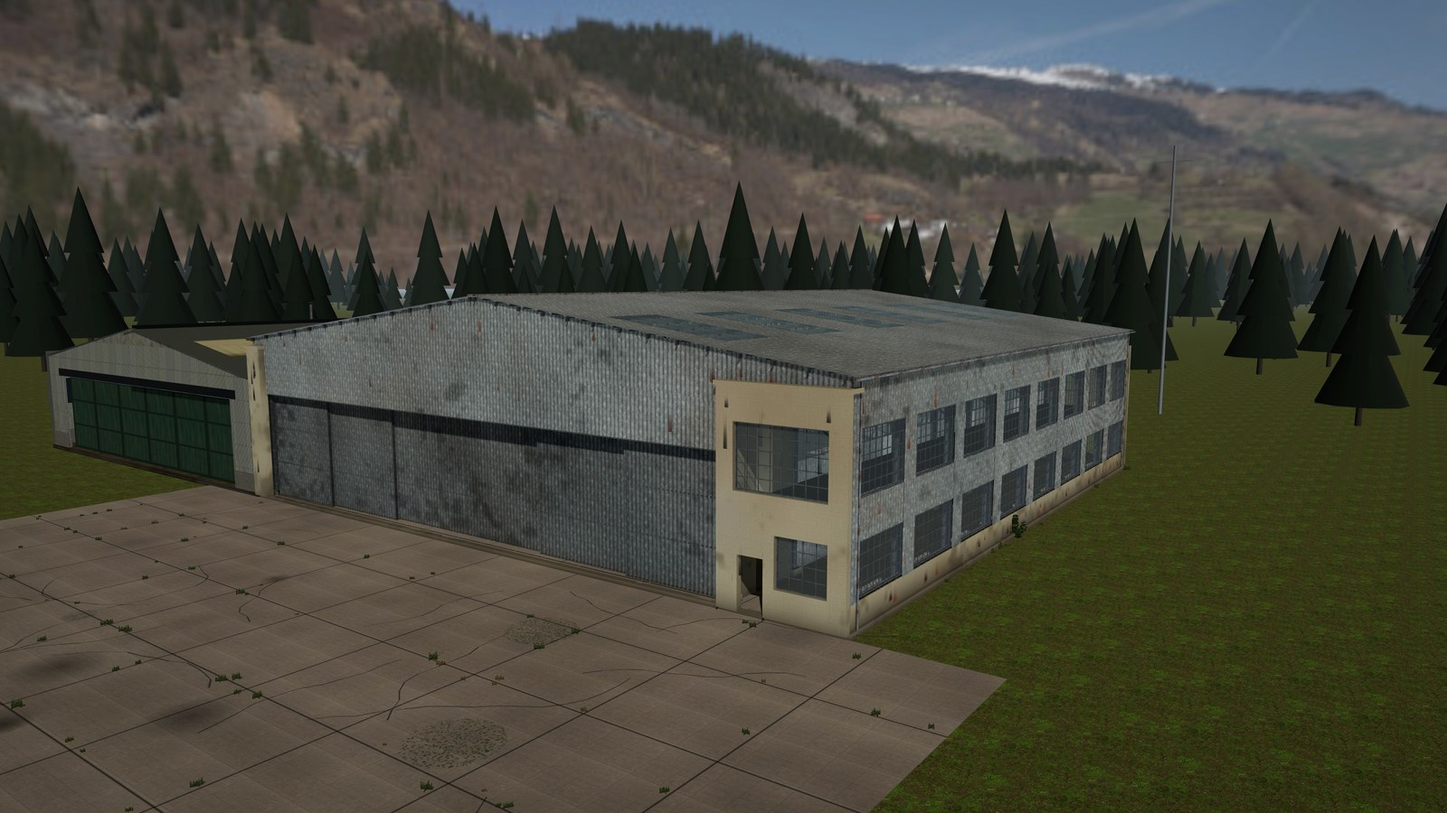
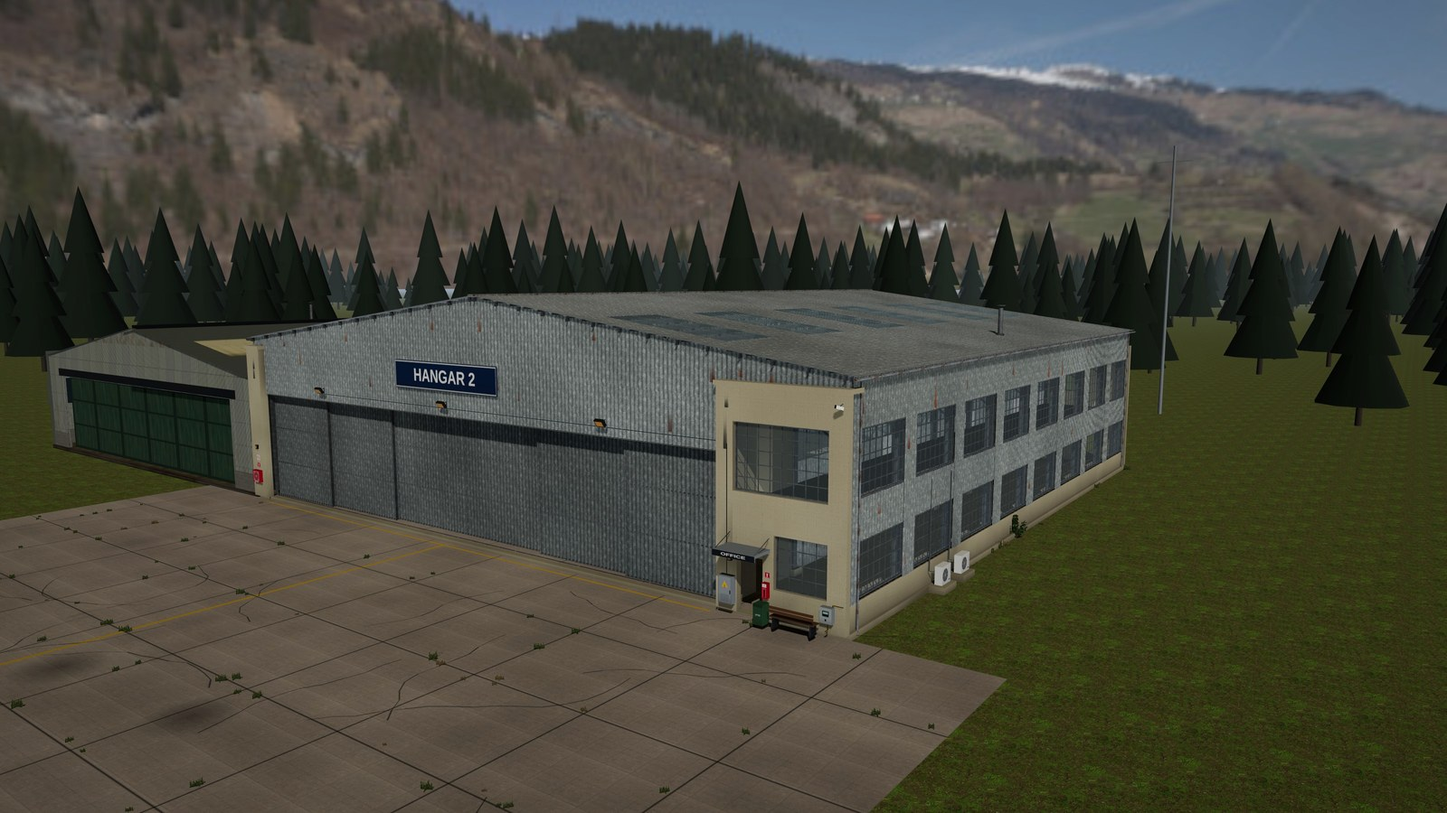
DERELICT-HANGAR: the restored hangar clean and working (the user: "still very dirty ... add detail that screams restored, like pipes and little furnishing on the facade")
- Less dirt on stage 3: cloud weathering 0.55 -> 0.08 on the sheets and the concrete, a light splash line, rust
  streaks rare, two water runs a tower, the stem washed, the apron's oil mostly gone.
- A working building, one painted atlas (the `fit` bag, one draw): the HANGAR 2 board over the door; three
  floodlights on the header (spot cones, aimed at the apron) with their conduit to the cabinet; the office entrance -
  canopy and OFFICE plate, bulkhead, door number, keypad, extinguisher box and fire sign, bench, litter bin; the meter
  box and a yellow gas pipe; the left pier's fire point (hose reel, signs, a lamp); hazard stripes up the jambs; two
  heat pumps on a pad along the office flank, their pipes up the wall; a stainless flue through the roof; a camera; the
  apron's yellow lead-in line and threshold stripe. At night (P.lamps) the lamps light and some office windows glow.
  Stage 3: 79 k tris / 14 bags at lod 0, 9.8 k / 10 at lod 1, 3.3 k / 6 at lod 2.
- Lamps publish their aim (ny) and kind ('flood' a cone); the bench stands floods as spotlights.
- The restored stills re-shot (front, hall, office entrance, night, the stage view).

Claude-Session: https://claude.ai/code/session_01RorUqEaREi51xJc6HDqs1e

diff --git a/flyDiy/tools/_derelict_gen.js b/flyDiy/tools/_derelict_gen.js
@@ -77,12 +77,12 @@ const PRESETS = {
   'derelict hangar, restored':  { stage: 3 },
 };
 const BAGS = ['steel', 'steelNew', 'sheetPale', 'sheetDark', 'sheetWhite', 'sheetNew', 'concFloor', 'concWall',
-              'glass', 'water', 'decal', 'stain', 'weed', 'plastic', 'lamp', 'ply'];
+              'glass', 'water', 'decal', 'stain', 'weed', 'plastic', 'lamp', 'fit', 'ply'];
 const EXTRA = ['aoskirt'];
 const FOLD = [null,
   [['steelNew', 'steel'], ['decal', null], ['stain', null], ['plastic', null], ['lamp', null], ['weed', null]],
   [['steelNew', 'steel'], ['sheetWhite', 'sheetPale'], ['concFloor', 'concWall'], ['ply', 'sheetDark'], ['glass', null], ['water', null],
-   ['decal', null], ['stain', null], ['plastic', null], ['lamp', null], ['weed', null]]];
+   ['decal', null], ['stain', null], ['plastic', null], ['lamp', null], ['weed', null], ['fit', null]]];
 const NO_AO = { glass: 1, water: 1, decal: 1, stain: 1, weed: 1, lamp: 1 };   // flat or cut: no voxels of their own in the bake
 
 // ---- the numbers ----------------------------------------------------------------------------------------------------------
@@ -143,7 +143,7 @@ function frame(O, X, Y) {
 const CELL = (c, u, v) => [((c % 4) + clamp(u, 0.004, 0.996)) / 4, 1 - (Math.floor(c / 4) + 1 - clamp(v, 0.004, 0.996)) / 4];
 // weed atlas, 2 x 2: 0 grass, 1 fireweed, 2 alder, 3 dry grass
 const WCELL = (c, u, v) => [((c % 2) + clamp(u, 0.004, 0.996)) / 2, 1 - (Math.floor(c / 2) + 1 - clamp(v, 0.004, 0.996)) / 2];
-const ATLAS = { decal: null, weed: null, barrier: null };
+const ATLAS = { decal: null, weed: null, barrier: null, fit: null };
 function decalCanvas() {
   if (typeof document === 'undefined') return null;
   const S = 256, c = document.createElement('canvas'); c.width = c.height = 4 * S;
@@ -620,6 +620,54 @@ function barrierCanvas() {
   return { diff: cD, rough: cR, nor: cN };
 }
 
+// ---- THE FITTINGS' ATLAS (the restored hangar's working details): one 1024 canvas, painted regions --------------------
+const FREG = {
+  signH: [0, 0, 1024, 192], office: [0, 192, 256, 64], nosmoke: [256, 192, 128, 128], fire: [384, 192, 128, 128],
+  num1: [512, 192, 64, 64], hazard: [576, 192, 192, 64], red: [768, 192, 32, 32], yellow: [800, 192, 32, 32], white: [832, 192, 32, 32],
+  dark: [864, 192, 32, 32], grey: [896, 192, 32, 32], navy: [928, 192, 32, 32], green: [960, 192, 32, 32], wood: [992, 192, 32, 32],
+  acfront: [0, 320, 256, 224], cabinet: [256, 320, 128, 224], meter: [384, 320, 128, 128], keypad: [512, 320, 64, 96],
+  extinguisher: [576, 320, 96, 224], hose: [672, 320, 160, 160], binfront: [832, 320, 128, 192],
+};
+function fitCanvas() {
+  if (typeof document === 'undefined') return null;
+  const c = document.createElement('canvas'); c.width = c.height = 1024;
+  const g = c.getContext('2d'), r = rng(19421109), rr = (a, b) => a + (b - a) * r();
+  const R = (k, col) => { const [x, y, w, h] = FREG[k]; g.fillStyle = col; g.fillRect(x, y, w, h); return [x, y, w, h]; };
+  g.fillStyle = '#7d8286'; g.fillRect(0, 0, 1024, 1024);
+  const grime = (k, a) => { const [x, y, w, h] = FREG[k]; for (let i = 0; i < 60 * w * h / 4096; i++) { g.fillStyle = `rgba(40,36,30,${rr(0.02, a)})`; g.fillRect(x + rr(0, w), y + rr(0, h), rr(1, 3), rr(1, 3)); }
+    const gr = g.createLinearGradient(0, y + h * 0.6, 0, y + h); gr.addColorStop(0, 'rgba(40,36,30,0)'); gr.addColorStop(1, `rgba(40,36,30,${a})`); g.fillStyle = gr; g.fillRect(x, y, w, h); };
+  { // the hangar's name board: white on a deep blue, a border, slight wear
+    const [x, y, w, h] = R('signH', '#1d3557'); g.strokeStyle = '#e8e6df'; g.lineWidth = 6; g.strokeRect(x + 10, y + 10, w - 20, h - 20);
+    g.fillStyle = '#efede6'; g.font = 'bold 118px sans-serif'; g.textAlign = 'center'; g.textBaseline = 'middle'; g.fillText('HANGAR 2', x + w / 2, y + h / 2 + 6); grime('signH', 0.12); }
+  { const [x, y, w, h] = R('office', '#2b2f33'); g.fillStyle = '#e9e7e0'; g.font = 'bold 40px sans-serif'; g.textAlign = 'center'; g.textBaseline = 'middle'; g.fillText('OFFICE', x + w / 2, y + h / 2 + 2); }
+  { const [x, y, w, h] = R('nosmoke', '#f4f3ee'); g.strokeStyle = '#c8102e'; g.lineWidth = 12; g.beginPath(); g.arc(x + 64, y + 64, 48, 0, 7); g.stroke();
+    g.fillStyle = '#222'; g.fillRect(x + 32, y + 58, 52, 12); g.fillStyle = '#d0a060'; g.fillRect(x + 84, y + 58, 10, 12); g.strokeStyle = '#c8102e'; g.beginPath(); g.moveTo(x + 30, y + 30); g.lineTo(x + 98, y + 98); g.stroke(); }
+  { const [x, y, w, h] = R('fire', '#c8102e'); g.fillStyle = '#fff'; g.fillRect(x + 54, y + 34, 22, 66); g.fillRect(x + 44, y + 24, 30, 12); g.beginPath(); g.moveTo(x + 76, y + 30); g.lineTo(x + 96, y + 22); g.lineTo(x + 96, y + 34); g.fill();
+    g.font = 'bold 16px sans-serif'; g.textAlign = 'center'; g.fillText('FIRE POINT', x + 64, y + 118); }
+  { const [x, y, w, h] = R('num1', '#f4f3ee'); g.fillStyle = '#1d3557'; g.font = 'bold 54px sans-serif'; g.textAlign = 'center'; g.textBaseline = 'middle'; g.fillText('1', x + 32, y + 34); }
+  { const [x, y, w, h] = R('hazard', '#e8b812'); g.save(); g.beginPath(); g.rect(x, y, w, h); g.clip(); g.fillStyle = '#1a1a1a'; for (let k = -4; k < 12; k++) { g.beginPath(); g.moveTo(x + k * 32, y + h); g.lineTo(x + k * 32 + 16, y + h); g.lineTo(x + k * 32 + 16 + h, y); g.lineTo(x + k * 32 + h, y); g.fill(); } g.restore(); grime('hazard', 0.25); }
+  R('red', '#b5171f'); R('yellow', '#d9a90f'); R('white', '#e3e2dc'); R('dark', '#2a2c2e'); R('grey', '#8a8f93'); R('navy', '#1d3557'); R('green', '#3c5a3e'); R('wood', '#6b4a2f');
+  { // the heat pump's front: a white case, a round fan grille, louvres, a badge
+    const [x, y, w, h] = R('acfront', '#e6e5df'); g.fillStyle = '#d6d5cf'; g.fillRect(x + 8, y + 8, w - 16, h - 16);
+    const cx = x + 96, cy = y + h / 2; g.fillStyle = '#3a3d40'; g.beginPath(); g.arc(cx, cy, 78, 0, 7); g.fill();
+    g.strokeStyle = '#c9c8c2'; g.lineWidth = 3; for (let k = 1; k < 6; k++) { g.beginPath(); g.arc(cx, cy, k * 15, 0, 7); g.stroke(); }
+    for (let k = 0; k < 8; k++) { const a = k * Math.PI / 4; g.beginPath(); g.moveTo(cx, cy); g.lineTo(cx + Math.cos(a) * 78, cy + Math.sin(a) * 78); g.stroke(); }
+    for (let k = 0; k < 9; k++) { g.fillStyle = '#b9b8b2'; g.fillRect(x + 190, y + 30 + k * 18, 52, 6); }
+    g.fillStyle = '#4a6fa5'; g.fillRect(x + 196, y + h - 40, 40, 12); grime('acfront', 0.12); }
+  { const [x, y, w, h] = R('cabinet', '#9aa0a3'); g.strokeStyle = '#6d7275'; g.lineWidth = 3; g.strokeRect(x + 6, y + 6, w - 12, h - 12);
+    for (let k = 0; k < 6; k++) { g.fillStyle = '#7c8285'; g.fillRect(x + 24, y + 150 + k * 10, 80, 4); }
+    g.fillStyle = '#e8b812'; g.beginPath(); g.moveTo(x + 64, y + 40); g.lineTo(x + 94, y + 92); g.lineTo(x + 34, y + 92); g.fill(); g.fillStyle = '#111'; g.font = 'bold 34px sans-serif'; g.textAlign = 'center'; g.fillText('!', x + 64, y + 88);
+    g.fillStyle = '#333'; g.fillRect(x + 108, y + 110, 8, 30); grime('cabinet', 0.18); }
+  { const [x, y, w, h] = R('meter', '#a7aba8'); g.fillStyle = '#1e2a2c'; g.fillRect(x + 30, y + 26, 68, 44); g.fillStyle = '#9fc2b8'; g.fillRect(x + 38, y + 34, 52, 16); g.fillStyle = '#333'; g.fillRect(x + 56, y + 90, 16, 16); grime('meter', 0.18); }
+  { const [x, y, w, h] = R('keypad', '#2c2e30'); g.fillStyle = '#9a9c9e'; for (let i = 0; i < 3; i++) for (let j = 0; j < 4; j++) g.fillRect(x + 10 + i * 16, y + 26 + j * 16, 11, 11); g.fillStyle = '#3fb34f'; g.fillRect(x + 26, y + 10, 10, 6); }
+  { const [x, y, w, h] = R('extinguisher', '#b5171f'); g.fillStyle = '#e8e6df'; g.fillRect(x + 12, y + 12, w - 24, 46); g.fillStyle = '#b5171f'; g.font = 'bold 14px sans-serif'; g.textAlign = 'center'; g.fillText('FIRE', x + w / 2, y + 32); g.fillText('EXT.', x + w / 2, y + 50);
+    g.fillStyle = 'rgba(200,230,235,0.35)'; g.fillRect(x + 14, y + 70, w - 28, h - 90); g.fillStyle = '#8e1016'; g.fillRect(x + 32, y + 90, 32, 110); }
+  { const [x, y, w, h] = R('hose', '#b5171f'); g.fillStyle = 'rgba(210,235,240,0.45)'; g.fillRect(x + 14, y + 14, w - 28, h - 28); g.strokeStyle = '#7a0d12'; g.lineWidth = 10; g.beginPath(); g.arc(x + w / 2, y + h / 2, 44, 0, 7); g.stroke(); g.beginPath(); g.arc(x + w / 2, y + h / 2, 26, 0, 7); g.stroke();
+    g.fillStyle = '#fff'; g.font = 'bold 16px sans-serif'; g.textAlign = 'center'; g.fillText('FIRE HOSE', x + w / 2, y + h - 6); }
+  { const [x, y, w, h] = R('binfront', '#3c5a3e'); g.fillStyle = '#2f4731'; g.fillRect(x, y, w, 26); g.fillStyle = '#e3e2dc'; g.font = 'bold 18px sans-serif'; g.textAlign = 'center'; g.fillText('LITTER', x + w / 2, y + 100); grime('binfront', 0.2); }
+  return c;
+}
+
 // ---- the build ------------------------------------------------------------------------------------------------------------
 function build(P0, lod, F) {
   const P = Object.assign({}, DEF, P0 || {});
@@ -678,7 +726,7 @@ function build(P0, lod, F) {
         for (let z = zA0 + 5; z < zA1; z += 5) jl([-xA, 0, z], [xA, 0, z], 0.05);
         for (let c = 0; c < 26; c++) { let x = (ra() * 2 - 1) * xA, z = zA0 + ra() * (zA1 - zA0), a = ra() * 6.28;
           for (let q = 0; q < 8 + ra() * 10; q++) { a += (ra() - 0.5) * 0.9; const x2 = x + Math.cos(a) * 0.7, z2 = z + Math.sin(a) * 0.7; jl([x, 0, z], [x2, 0, z2], 0.02 + ra() * 0.025); x = x2; z = z2; } }
-        for (let q = 0; q < 9; q++) { const x = (ra() * 2 - 1) * (xA - 3), z = zA0 + 2 + ra() * Math.min(30, zA1 - zA0 - 4), r = 0.5 + ra() * 1.1, c = q < 6 ? 11 : 12;
+        for (let q = 0; q < (rest ? 2 : 9); q++) { const x = (ra() * 2 - 1) * (xA - 3), z = zA0 + 2 + ra() * Math.min(30, zA1 - zA0 - 4), r = 0.5 + ra() * 1.1, c = q < 6 ? 11 : 12;
           face(bags.stain, [[x - r, yl(x, z), z + r], [x + r, yl(x, z), z + r], [x + r, yl(x, z), z - r], [x - r, yl(x, z), z - r]], Yup, p => CELL(c, (p[0] - x + r) / (2 * r), (z + r - p[2]) / (2 * r))); }
       }
       // the step from the apron up to the slab
@@ -1055,7 +1103,7 @@ function build(P0, lod, F) {
       clad(F2, w0, w1, fy + 3.3, yL2 + 0.9, 0.04, reg);
       clad(F2, u0, w0, yL2 + 0.9, yL2 + 3.5, 0.04, reg); clad(F2, w1, u1, yL2 + 0.9, yL2 + 3.5, 0.04, reg);
       clad(F2, u0, u1, yL2 + 3.5, yR(HW) + 0.02, 0.04, regBand);
-      if (L === 0) for (let q = 0; q < 3; q++) {                         // water down the stem from the sill
+      if (L === 0 && !rest) for (let q = 0; q < 3; q++) {                // water down the stem from the sill (restored: washed)
         const uq = w0 + (w1 - w0) * (0.15 + 0.7 * hashN(k, q, 99 + s, seed)), wq = 0.25 + 0.35 * hashN(k, q, 100 + s, seed), Lq = 0.5 + 0.45 * hashN(k, q, 101, seed);
         face(bags.stain, [F2.P(uq, fy + 1.0 - Lq, 0.005), F2.P(uq + wq, fy + 1.0 - Lq, 0.005), F2.P(uq + wq, fy + 1.0, 0.005), F2.P(uq, fy + 1.0, 0.005)], F2.N,
              p => { const q2 = sub(p, F2.P(uq, fy + 1.0, 0)); return CELL(q % 2 ? 7 : 5, dot(q2, F2.X) / wq, -q2[1] / Lq); });
@@ -1484,10 +1532,139 @@ function build(P0, lod, F) {
   // the stains down the concrete under the tower windows and the coping (water runs)
   if (L === 0) {
     const FT = frame([0, 0, HD + zT + 0.153], [1, 0, 0], Yup);
-    for (const s of [-1, 1]) for (let q = 0; q < 7; q++) {
+    for (const s of [-1, 1]) for (let q = 0; q < (rest ? 2 : 7); q++) {
       const u = s * xGs(s) + s * (0.3 + Math.max(0.1, GWs(s) - 0.6) * hashN(q, s, 97, seed)) - 0.15, top = q < 4 ? towerTop - 0.02 : (q < 6 ? yGR - 0.5 : fy + 3.3), Ls = 0.8 + 1.8 * hashN(q, s, 98, seed);
       face(bags.stain, [FT.P(u, top - Ls, 0), FT.P(u + 0.3, top - Ls, 0), FT.P(u + 0.3, top, 0), FT.P(u, top, 0)], FT.N, p => CELL(7, (p[0] - u) / 0.3, (top - p[1]) / Ls));
       st.decals++;
+    }
+  }
+
+  // ===================================================================== A WORKING BUILDING (restored)
+  // (the user 9 Nov: "add detail that screams restored, like pipes and little furnishing on the facade that show that
+  // it's actually working"): the services a used hangar wears - a sign over the door and floodlights on the header with
+  // their conduit to the cabinet and the meter box; the office entrance (a canopy, a bulkhead, the door's number, a plate,
+  // a bench, a bin); the fire point (extinguisher, hose reel, the signs); a yellow gas pipe; heat-pump units on their pad
+  // along the office flank, their pipes up the wall; a stainless flue through the roof over the offices; a camera;
+  // hazard stripes on the jambs; the apron's lead-in line. One painted atlas (the `fit` bag) for every coloured part.
+  if (rest && L < 2) {
+    const fb = bags.fit, T0 = HD + zT + 0.15;                               // the towers' concrete face
+    const fv = (reg, u, v) => { const [x, y, w, h] = FREG[reg]; return [(x + clamp(u, 0.01, 0.99) * w) / 1024, 1 - (y + clamp(v, 0.01, 0.99) * h) / 1024]; };
+    // an oriented box: centre c, X across, Y up, Z = X x Y out of its wall; the front wears `rf`, the rest `rs` (a solid)
+    const obox = (c, X, Y, hx, hy, hz, rf, rs) => {
+      const Zv = nrm(crs(X, Y)), P0 = (a, b, d) => add(add(add(c, mul(X, a * hx)), mul(Y, b * hy)), mul(Zv, d * hz));
+      const F = (pts, n, uvf) => { const ids = pts.map(p => fb.v(p, uvf(p), n)); fb.quad(ids[0], ids[1], ids[2], ids[3]); };
+      const so = () => fv(rs || 'grey', 0.5, 0.5);
+      F([P0(-1, -1, 1), P0(1, -1, 1), P0(1, 1, 1), P0(-1, 1, 1)], Zv, p => { const q = sub(p, c); return fv(rf || rs || 'grey', 0.5 + dot(q, X) / (2 * hx), 1 - (0.5 + dot(q, Y) / (2 * hy))); });
+      F([P0(1, -1, -1), P0(-1, -1, -1), P0(-1, 1, -1), P0(1, 1, -1)], mul(Zv, -1), so);
+      F([P0(1, -1, 1), P0(1, -1, -1), P0(1, 1, -1), P0(1, 1, 1)], X, so);
+      F([P0(-1, -1, -1), P0(-1, -1, 1), P0(-1, 1, 1), P0(-1, 1, -1)], mul(X, -1), so);
+      F([P0(-1, 1, 1), P0(1, 1, 1), P0(1, 1, -1), P0(-1, 1, -1)], Y, so);
+      F([P0(-1, -1, -1), P0(1, -1, -1), P0(1, -1, 1), P0(-1, -1, 1)], mul(Y, -1), so);
+    };
+    // a tube a -> b (radius r) in one colour of the atlas, with elbows left to the joints
+    const tube = (a, b, r, reg, seg) => {
+      const n = seg || 8, ax = nrm(sub(b, a)); let u = Math.abs(ax[1]) < 0.9 ? [0, 1, 0] : [1, 0, 0];
+      const e1 = nrm(crs(ax, u)), e2 = crs(e1, ax), uv = fv(reg, 0.5, 0.5);
+      const ring = p => { const out = []; for (let k = 0; k <= n; k++) { const t = k / n * Math.PI * 2, d = add(mul(e1, Math.cos(t)), mul(e2, Math.sin(t))); out.push(fb.v(add(p, mul(d, r)), uv, d)); } return out; };
+      const A = ring(a), B = ring(b); for (let k = 0; k < n; k++) fb.quad(A[k], A[k + 1], B[k + 1], B[k]);
+    };
+    const pipe = (pts, r, reg) => { for (let i = 0; i + 1 < pts.length; i++) tube(pts[i], pts[i + 1], r, reg); };
+    const lens = (c, X, Y, hx, hy) => { const Zv = nrm(crs(X, Y)), P0 = (a, b) => add(add(add(c, mul(X, a * hx)), mul(Y, b * hy)), mul(Zv, 0.003));
+      const ids = [P0(-1, -1), P0(1, -1), P0(1, 1), P0(-1, 1)].map((p, i) => bags.lamp.v(p, [i % 3 ? 1 : 0, i > 1 ? 1 : 0], Zv)); bags.lamp.quad(ids[0], ids[1], ids[2], ids[3]); };
+    const lamp = (p, nrmv, k, range, col, spot) => lights.push({ x: p[0], y: p[1], z: p[2], nx: nrmv[0], ny: nrmv[1], nz: nrmv[2], col: col || [1.0, 0.86, 0.66], k, range, kind: spot ? 'flood' : 'facade' });   // a flood throws a cone (ny: its aim's drop)
+    const Xp = [1, 0, 0], Yp = [0, 1, 0];
+    // ---- THE SIGN over the door, on brackets off the header band (its centre the door's)
+    {
+      const yc = fy + DH + 1.75, w = 7.6, h = 1.42, z = HD + 0.2;
+      obox([dC, yc, z], Xp, Yp, w / 2, h / 2, 0.03, 'signH', 'navy');
+      if (L === 0) for (const dx of [-2.6, 0, 2.6]) for (const dy of [-0.45, 0.45]) member(bags.steel, [dC + dx, yc + dy, HD + 0.06], [dC + dx, yc + dy, z - 0.03], 'rod', Yp, L);
+    }
+    // ---- THE FLOODLIGHTS on the header, aimed down at the apron, their conduit along the header and down the tower
+    const yF = fy + DH + 0.42, fx = [dC - 10.5, dC, dC + 10.5];
+    for (const x of fx) {
+      const tilt = 0.6, Yt = [0, Math.cos(tilt), Math.sin(tilt)], c = [x, yF, HD + 0.42];
+      obox(c, Xp, Yt, 0.24, 0.17, 0.07, 'dark', 'dark');
+      lens(add(c, mul(nrm(crs(Xp, Yt)), 0.072)), Xp, Yt, 0.2, 0.13);
+      if (L === 0) { member(bags.steel, [x, yF + 0.12, HD + 0.08], [x, yF + 0.04, HD + 0.35], 'rod', Yp, L); }
+      lamp(add(c, [0, -0.1, 0.12]), [0, -0.5, 0.86], 1.2, 30, [1.0, 0.93, 0.82], true);
+    }
+    if (L === 0) {
+      const yc0 = fy + DH + 0.2, zc = HD + 0.12;
+      pipe([[fx[0], yc0, zc], [xGR + 0.4, yc0, zc]], 0.016, 'grey');
+      for (const x of fx) pipe([[x, yc0, zc], [x, yF + 0.12, zc]], 0.016, 'grey');
+      pipe([[xGR + 0.4, yc0, zc], [xGR + 0.4, yc0, T0 + 0.03], [xGR + 0.4, fy + 1.45, T0 + 0.03]], 0.016, 'grey');
+    }
+    if (L === 0) {
+      // ---- THE OFFICE ENTRANCE: the right tower's door (x 15.35 .. 16.55), a canopy, its lamp, its number, its plate
+      const dx0 = xGR + 0.85, dx1 = xGR + 2.05, dxc = (dx0 + dx1) / 2, yC = fy + 2.62;
+      obox([dxc, yC + 0.06, T0 + 0.55], Xp, Yp, 0.95, 0.06, 0.55, null, 'grey');                       // the canopy's deck
+      obox([dxc, yC - 0.02, T0 + 1.09], Xp, Yp, 0.97, 0.12, 0.02, 'office', 'grey');                  // its fascia, the plate on it
+      for (const sx of [-0.9, 0.9]) member(bags.steel, [dxc + sx, yC + 0.55, T0 + 0.02], [dxc + sx, yC + 0.1, T0 + 1.05], 'rod', Xp, L);   // the hangers
+      obox([dxc, fy + 2.4, T0 + 0.025], Xp, Yp, 0.1, 0.1, 0.02, 'num1', 'white');                      // the door's number
+      obox([dx0 - 0.28, fy + 2.15, T0 + 0.06], Xp, Yp, 0.09, 0.12, 0.06, 'dark', 'dark');            // the bulkhead
+      lens([dx0 - 0.28, fy + 2.15, T0 + 0.121], Xp, Yp, 0.07, 0.09);
+      lamp([dx0 - 0.28, fy + 2.15, T0 + 0.25], [0, 0, 1], 0.5, 9);
+      obox([dx1 + 0.22, fy + 1.35, T0 + 0.02], Xp, Yp, 0.05, 0.08, 0.02, 'keypad', 'dark');          // the keypad
+      obox([dx1 + 0.22, fy + 1.15, T0 + 0.11], Xp, Yp, 0.12, 0.3, 0.1, 'extinguisher', 'red');       // the extinguisher in its box
+      obox([dx1 + 0.22, fy + 1.72, T0 + 0.01], Xp, Yp, 0.1, 0.1, 0.006, 'fire', 'red');
+      // the bench and the bin under the window
+      const bz = T0 + 0.55, bx = (xGR + 2.7 + HW - 0.6) / 2;
+      for (const sx of [-0.8, 0.8]) { obox([bx + sx, fy + 0.22, bz], Xp, Yp, 0.03, 0.22, 0.2, null, 'dark'); }
+      for (let q = 0; q < 3; q++) obox([bx, fy + 0.45, bz - 0.15 + q * 0.15], Xp, Yp, 0.95, 0.02, 0.06, 'wood', 'wood');
+      for (let q = 0; q < 2; q++) obox([bx, fy + 0.68 + q * 0.14, bz + 0.24], Xp, [0, 0.97, -0.24], 0.95, 0.05, 0.02, 'wood', 'wood');
+      obox([bx - 1.45, fy + 0.4, bz], Xp, Yp, 0.22, 0.4, 0.22, 'binfront', 'green');
+      // the cabinet and the meter box (the gas meter beside it, its yellow pipe into the wall), under the ground window
+      obox([xGR + 0.4 + 0.1, fy + 0.9, T0 + 0.16], Xp, Yp, 0.32, 0.55, 0.15, 'cabinet', 'grey');
+      obox([HW - 0.55, fy + 0.75, T0 + 0.13], Xp, Yp, 0.25, 0.3, 0.12, 'meter', 'grey');
+      pipe([[HW - 0.55, fy + 0.45, T0 + 0.07], [HW - 0.55, fy + 0.15, T0 + 0.07], [HW - 0.55, fy + 0.15, T0 + 0.25]], 0.024, 'yellow');
+      pipe([[HW - 0.35, fy + 1.05, T0 + 0.07], [HW - 0.35, fy + 1.12, T0 + 0.07], [HW + 0.05, fy + 1.12, T0 + 0.07], [HW + 0.05, fy + 1.12, T0 - 0.2]], 0.02, 'yellow');
+      // the camera on the tower's corner, looking down the apron
+      obox([HW - 0.1, towerTop - 0.45, T0 + 0.28], [0.8, 0, 0.6], [0, 0.94, -0.33], 0.07, 0.06, 0.15, 'dark', 'white');
+      member(bags.steel, [HW - 0.1, towerTop - 0.35, T0 + 0.01], [HW - 0.1, towerTop - 0.4, T0 + 0.2], 'rod', Yp, L);
+      // ---- THE FIRE POINT on the left facade's pier: the hose reel, the no-smoking sign, the fire sign; a lamp over
+      const pc = -(xGL + HW) / 2;
+      obox([pc, fy + 1.25, T0 + 0.11], Xp, Yp, 0.36, 0.36, 0.1, 'hose', 'red');
+      obox([pc, fy + 1.9, T0 + 0.006], Xp, Yp, 0.13, 0.13, 0.005, 'fire', 'red');
+      obox([pc, fy + 2.35, T0 + 0.006], Xp, Yp, 0.16, 0.16, 0.005, 'nosmoke', 'white');
+      obox([pc, fy + 3.0, T0 + 0.06], Xp, Yp, 0.09, 0.12, 0.06, 'dark', 'dark'); lens([pc, fy + 3.0, T0 + 0.121], Xp, Yp, 0.07, 0.09); lamp([pc, fy + 3.0, T0 + 0.25], [0, 0, 1], 0.5, 9);
+      // ---- HAZARD STRIPES up the opening's jambs (the towers' returns), to 1.5 m
+      for (const [x, nx] of [[xGR - 0.151, -1], [-xGL + 0.151, 1]]) {
+        const ids = [[x, fy + 0.02, HD + 0.02], [x, fy + 0.02, T0 - 0.02], [x, fy + 1.5, T0 - 0.02], [x, fy + 1.5, HD + 0.02]].map((p, i) => fb.v(p, fv('hazard', i === 1 || i === 2 ? 0.45 : 0, i > 1 ? 0.99 : 0.01), [nx, 0, 0]));
+        if (nx > 0) fb.quad(ids[0], ids[1], ids[2], ids[3]); else fb.quad(ids[0], ids[3], ids[2], ids[1]);
+      }
+      // ---- THE HEAT PUMPS on their pad along the office flank, the pipes up the wall into the upper floor
+      for (const zc of [HD - 7.5, HD - 9.6]) {
+        K.boxAB(bags.concWall, [HW + 0.1, g(HW, zc) - 0.05, zc - 0.65], [HW + 0.85, fy + 0.03, zc + 0.65]);
+        obox([HW + 0.48, fy + 0.45, zc], [0, 0, -1], Yp, 0.45, 0.4, 0.17, 'acfront', 'white');
+        pipe([[HW + 0.3, fy + 0.6, zc + 0.5], [HW + 0.08, fy + 0.6, zc + 0.5], [HW + 0.08, yL2 + 0.6, zc + 0.5], [HW - 0.1, yL2 + 0.6, zc + 0.5]], 0.03, 'white');
+        pipe([[HW + 0.2, fy + 0.15, zc - 0.3], [HW + 0.2, fy + 0.03, zc - 0.3]], 0.012, 'white');
+      }
+      // ---- THE APRON'S LEAD-IN LINE and the door's threshold stripe (yellow paint), when the build lays its apron
+      if (P.apron) {
+        const yl = (x, z) => g(x, z) + 0.069, line = (x0, z0, x1, z1, w) => { const d = nrm([x1 - x0, 0, z1 - z0]), nn = [-d[2], 0, d[0]];
+          const q = [[x0 - nn[0] * w, z0 - nn[2] * w], [x1 - nn[0] * w, z1 - nn[2] * w], [x1 + nn[0] * w, z1 + nn[2] * w], [x0 + nn[0] * w, z0 + nn[2] * w]].map(([a, b]) => fb.v([a, yl(a, b), b], fv('yellow', 0.5, 0.5), Yp));
+          fb.quad(q[0], q[3], q[2], q[1]); };
+        line(dC, HD + 0.6, dC, HD + Math.min(P.apronL - 1, 24), 0.08);
+        line(-xGL + 0.3, HD + 0.6, xGR - 0.3, HD + 0.6, 0.06);
+      }
+    }
+    // ---- THE FLUE: stainless, through the roof over the offices, a rain cap on it
+    {
+      const xf = HW - 2.6, zf = -2.0, top = yR(xf) + 1.5;
+      K.cyl(bags.steel, [xf, yGR, zf], [0, 1, 0], 0.13, top - yGR, L === 0 ? 12 : 6, true, { smooth: true });
+      if (L === 0) { K.cyl(bags.steel, [xf, yR(xf) - 0.02, zf], [0, 1, 0], 0.22, 0.12, 12, true); K.cyl(bags.steel, [xf, top + 0.12, zf], [0, 1, 0], 0.24, 0.04, 12, true); }
+    }
+    // ---- AT NIGHT the offices are lit: a warm card behind some of the right flank's and the tower's windows
+    if (P.lamps && L === 0) {
+      const F2 = frame([HW, 0, HD], [0, 0, -1], Yp), uOf = z => HD - z;
+      for (let k = 0; k < NB; k++) for (const [ya, yb] of [[fy + 1.1, fy + 3.3], [yL2 + 0.9, yL2 + 3.5]]) {
+        if (hashN(k, Math.round(ya), 131, seed) > 0.55) continue;
+        const u0 = Math.min(uOf(zF(k)), uOf(zF(k + 1))) + 0.6, u1 = Math.max(uOf(zF(k)), uOf(zF(k + 1))) - 0.6;
+        const ids = [F2.P(u0, ya, -0.6), F2.P(u1, ya, -0.6), F2.P(u1, yb, -0.6), F2.P(u0, yb, -0.6)].map((p, i) => bags.lamp.v(p, [i % 3 ? 1 : 0, i > 1 ? 1 : 0], F2.N));
+        bags.lamp.quad(ids[0], ids[1], ids[2], ids[3]);
+      }
+      const ids = [[xGR + 2.6, fy + 1.2, T0 - 0.5], [HW - 0.6, fy + 1.2, T0 - 0.5], [HW - 0.6, fy + 3.3, T0 - 0.5], [xGR + 2.6, fy + 3.3, T0 - 0.5]].map((p, i) => bags.lamp.v(p, [i % 3 ? 1 : 0, i > 1 ? 1 : 0], [0, 0, 1]));
+      bags.lamp.quad(ids[0], ids[1], ids[2], ids[3]);
     }
   }
 
@@ -1624,6 +1801,7 @@ function makeMats() {
   M.stain = sh('stain', 'glass', { color: 0xffffff, roughness: 0.95, metalness: 0, depthWrite: false, polygonOffset: true, polygonOffsetFactor: -2, polygonOffsetUnits: -2 });
   M.weed = sh('weed', 'cut', { color: 0xffffff, roughness: 0.9, metalness: 0, alphaTest: 0.42 });
   M.plastic = sh('plastic', 'std', { color: 0xffffff, roughness: 1, metalness: 0 });
+  M.fit = sh('fit', 'std', { color: 0xffffff, roughness: 0.55, metalness: 0.1 });
   M.lamp = sh('lamp', 'glow', { color: 0xd88a2a, roughness: 0.25, metalness: 0, emissive: 0xff9a26, emissiveIntensity: 0 });
   const HF = HG.makeFinish ? HG.makeFinish() : null;
   M.aoskirt = HF && HF.MAT ? HF.MAT.aoskirt : null;
@@ -1664,7 +1842,7 @@ function applyFinish(P0, F0) {
     calibrate(m, img, target, hue, k === 'concFloor' ? () => wetFrom(M) : null);
     m.metalness = metal; if (m.normalScale) m.normalScale.set(ns, ns);
     if (HG.shadeHouse && !(m.userData && m.userData.houseShaded)) HG.shadeHouse(m, SU);
-    if (HG.cloudWeather && /^(sheet|concWall)/.test(k)) HG.cloudWeather(m, k === 'sheetNew' ? 0.1 : 0.55, 0);
+    if (HG.cloudWeather && /^(sheet|concWall)/.test(k)) HG.cloudWeather(m, k === 'sheetNew' || (P.stage | 0) === 3 ? 0.08 : 0.55, 0);   // (the user: the restored "still very dirty" - a little weathering, no more)
     m.needsUpdate = true;
   }
   if (!ATLAS.decal) { const c = decalCanvas(); if (c) { ATLAS.decal = new THREE.CanvasTexture(c); ATLAS.decal.colorSpace = THREE.SRGBColorSpace; ATLAS.decal.anisotropy = 8; } }
@@ -1673,6 +1851,8 @@ function applyFinish(P0, F0) {
   if (ATLAS.weed) { M.weed.map = ATLAS.weed; M.weed.needsUpdate = true; }
   if (!ATLAS.barrier) { const B = barrierCanvas(); if (B) { const tx = (cv, srgb) => { const t = new THREE.CanvasTexture(cv); if (srgb) t.colorSpace = THREE.SRGBColorSpace; t.anisotropy = 8; return t; };
     ATLAS.barrier = { diff: tx(B.diff, true), rough: tx(B.rough), nor: tx(B.nor) }; } }
+  if (!ATLAS.fit) { const c = fitCanvas(); if (c) { ATLAS.fit = new THREE.CanvasTexture(c); ATLAS.fit.colorSpace = THREE.SRGBColorSpace; ATLAS.fit.anisotropy = 8; } }
+  if (ATLAS.fit && M.fit) { M.fit.map = ATLAS.fit; M.fit.needsUpdate = true; }
   if (ATLAS.barrier && M.plastic) {
     const m = M.plastic; m.map = ATLAS.barrier.diff; m.roughnessMap = ATLAS.barrier.rough; m.normalMap = ATLAS.barrier.nor; m.normalScale.set(0.7, 0.7); m.color.setHex(0xffffff); m.roughness = 1;
     m.needsUpdate = true;   // (no house finish on it: its sheet carries its own grime and the house's hook re-reads the map)
@@ -1683,7 +1863,8 @@ function applyFinish(P0, F0) {
   if (M.lamp) { M.lamp.emissiveIntensity = P.lamps ? 2.2 : 0; M.lamp.color.setHex(P.lamps ? 0xffb050 : 0xc88a3a); M.lamp.needsUpdate = true; }
   // the dirt ramp off the slab (the house's): the dark tide line on the concrete, rust-brown splash on the sheets
   if (SU) {
-    SU.uDirtTop.value = P.floorY + 0.9; SU.uDirtH.value = 1.1; SU.uDirtK.value = 0.6; SU.uNoiseK.value = 0.2; SU.uAOd.value = 0.4; SU.uSag.value = 0;
+    const R3 = (P.stage | 0) === 3;
+    SU.uDirtTop.value = P.floorY + (R3 ? 0.5 : 0.9); SU.uDirtH.value = R3 ? 0.7 : 1.1; SU.uDirtK.value = R3 ? 0.22 : 0.6; SU.uNoiseK.value = 0.2; SU.uAOd.value = 0.4; SU.uSag.value = 0;
     for (const k in DRESS) { const D2 = M[k] && M[k].userData && M[k].userData.dirt; if (!D2) continue;
       D2.uDirtGain.value = k === 'concFloor' ? 0 : (k === 'concWall' ? 1.5 : (k === 'sheetNew' ? 0.3 : 1.0));   // (a floor is not a wall: no splash line) D2.uDirtOwn.value.setHex(/^conc/.test(k) ? 0x3d382f : 0x5a4232); D2.uWander.value = 0;
       D2.uAgeDesat.value = /^(steel|sheetPale|sheetDark)$/.test(k) ? 0.2 : 0; D2.uAgeDark.value = k === 'steel' ? 0.12 : 0; }
@@ -1698,7 +1879,7 @@ function finishReport() {
 window.DERELICT_GEN = {
   LOD_DETAIL: /^(glass|water|ply)$/,
   DEF, ROWS, PRESETS, STAGES, BAGS, EXTRA, dimsOf, build, applyFinish, makeFinish, finishReport, worksP,
-  atlasCanvas: { decal: decalCanvas, weed: weedCanvas, barrier: barrierCanvas }, BARRIER, barrierMesh, corrugation: { PITCH, CREST, AMP },
+  atlasCanvas: { decal: decalCanvas, weed: weedCanvas, barrier: barrierCanvas, fit: fitCanvas }, BARRIER, barrierMesh, corrugation: { PITCH, CREST, AMP },
   get MAT() { return defaultFinish().MAT; },
   albedoOf, calibrate, DRESS, WET: { dark: WET_DARK, sat: WET_SAT },
 };

diff --git a/flyDiy/tools/_derelict.html b/flyDiy/tools/_derelict.html
@@ -217,8 +217,12 @@ function buildHangar(o) {
   BUILT.meshes = addBuilt(ROOT, BUILT, o.stage >= 3 ? (FIN.hn && FIN.hn.MAT) : FIN.MAT);
   for (const L of ((BUILT.stats.lit && BUILT.stats.lit.lights) || [])) {   // the lamps are real lights (G253: no light without its glass)
     if (!P.lamps) break;
-    const pl = new THREE.PointLight(new THREE.Color(L.col[0], L.col[1], L.col[2]), L.k * 40, L.range * 1.4, 2);
-    pl.position.set(L.x, L.y, L.z); ROOT.add(pl);
+    const col = new THREE.Color(L.col[0], L.col[1], L.col[2]);
+    if (L.kind === 'flood') {                                               // a floodlight: a cone forward and down, not a ball of light on its own wall
+      const sp = new THREE.SpotLight(col, L.k * 160, L.range * 1.6, 0.75, 0.55, 2);
+      sp.position.set(L.x, L.y, L.z); sp.target.position.set(L.x + L.nx * 12, L.y + (L.ny || -0.5) * 12, L.z + L.nz * 12);
+      ROOT.add(sp, sp.target);
+    } else { const pl = new THREE.PointLight(col, L.k * 40, L.range * 1.4, 2); pl.position.set(L.x + L.nx * 0.15, L.y, L.z + L.nz * 0.15); ROOT.add(pl); }
   }
   WORLD.add(ROOT);
   CUR = key;
@@ -291,6 +295,8 @@ const VIEWS = {
   puddle:   { eye: [1.5, 1.6, -4], at: [0.5, 0.0, 4.5], fov: 55, yaw: 60, mood: 'sun', wet: 0.85 },
   restored: { eye: [5, 1.65, 52], at: [0, 6.2, 0], fov: 52, yaw: 66, mood: 'sun', stage: 3, P: { doorOpen: 0.75 } },
   hall:     { eye: [3.5, 1.65, -14], at: [-1, 5.0, 30], fov: 66, yaw: 60, mood: 'sun', stage: 3, P: { doorOpen: 1 } },
+  office:   { eye: [11.0, 1.7, 29.5], at: [17.4, 1.9, 20.6], fov: 50, yaw: 66, mood: 'sun', stage: 3, P: { doorOpen: 0.6 } },
+  rnight:   { eye: [10, 1.8, 46], at: [1, 4.5, 15], fov: 52, yaw: 66, mood: 'night', stage: 3, P: { lamps: 1, doorOpen: 0.5 } },
 };
 function setView(name, yawOverride) {
   const v = VIEWS[name] || VIEWS.front;

diff --git a/flyDiy/tools/derelict_shot.js b/flyDiy/tools/derelict_shot.js
@@ -48,6 +48,8 @@ const SET = [
   { name: 'detail_puddle', cam: 'puddle',   stage: 0 },
   { name: 'restored_front', cam: 'restored', stage: 3 },
   { name: 'restored_hall', cam: 'hall', stage: 3 },
+  { name: 'restored_office', cam: 'office', stage: 3 },
+  { name: 'restored_night', cam: 'rnight', stage: 3 },
 ].filter(s => !ONLY || ONLY.includes(s.name) || ONLY.includes(s.cam));
 const TYPES = { '.html': 'text/html', '.js': 'application/javascript', '.json': 'application/json', '.png': 'image/png', '.jpg': 'image/jpeg', '.webp': 'image/webp', '.ktx2': 'image/ktx2', '.bin': 'application/octet-stream' };
 function serve() {
